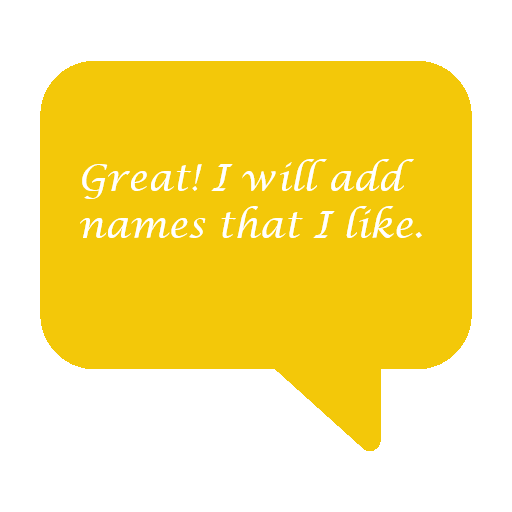
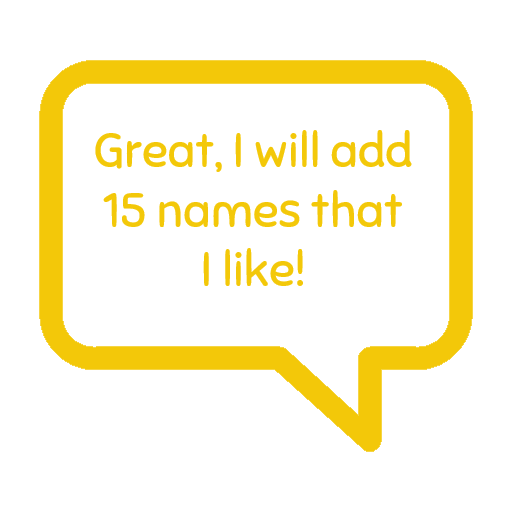
speech bubbles added

diff --git a/src/App.js b/src/App.js
@@ -10,9 +10,10 @@ import create from './img/create2.png';
 import sword from './img/sword.png';
 import trophy from './img/trophy.png';
 import speechB1 from './img/speech-bubble1.png';
-import speechB2 from './img/speech-bubble2.png';
+import speechB2 from './img/speech-bubble22.png';
 import speechB3 from './img/speech-bubble3.png';
 import speechB4 from './img/speech-bubble4.png';
+/* import parent from './img/parent1.jpg'; */
 
 function App() {
 
@@ -39,8 +40,8 @@ function App() {
         <img className='Baby' src={babyboy} />
       </header>
       <section className='Names-pool'>
-        {/* <img src={speechB1} className='SpeechB1 Bubble' />
-        <img src={speechB2} className='SpeechB2 Bubble' /> */}
+        <img src={speechB1} className='SpeechB1 Bubble' />
+        <img src={speechB2} className='SpeechB2 Bubble' />
         <container className='ContentBox'>
           <img src={create} className='CreateIcon BigIcon' />
           <h2>1. Create pool of names</h2>
@@ -49,16 +50,15 @@ function App() {
         </container>
       </section>
       <section className='Comparison' id='duels'>
-        {/* <img src={speechB3} className='SpeechB3 Bubble' />
-        <img src={speechB4} className='SpeechB4 Bubble' /> */}
+        <img src={speechB3} className='SpeechB3 Bubble' />
+        <img src={speechB4} className='SpeechB4 Bubble' />
+        
         <container className='ContentBox'>
           <img src={sword} className='CompareIcon BigIcon' />
           <h2>2. Compare names in pairs</h2>
           <p> Complete a series of name compraisons to determine your preference ranking. Do it INDIVIDUALLY.</p>
-          {/* <p> Complete a series of name compraisons to determine your preference ranking. Do it INDIVIDUALLY.</p>
-          <p>Person A starts in the first window.</p>
-          <p>Then SWAP SEATS and Person B contiunes in the second window.</p> */}
-
+          {/* <img src={parent} className='ComparePhoto' /> */}
+          
 
           <div className='CompareWindow'>
             <h3>Person A</h3>
@@ -85,7 +85,7 @@ function App() {
           <p>See the best names TRADE-OFF suggestion for your relationship.</p>
           <Results ranking={ranking} />
         </container>
-        
+
       </section>
       <footer className='Footer'>
         <p>Created by Jerzy Szufa</p>

diff --git a/src/App.css b/src/App.css
@@ -33,16 +33,7 @@
   font-size: 20px;
 }
 
-.App .CompareWindow {
-  margin-bottom: 60px;
-  margin-top: 100px;
-}
 
-.App .CompareWindow h3 {
-  color: white;
-  text-align: center;
-  text-transform: uppercase;
-}
 
 .App .Header {
   background-color: #79BDCB;
@@ -93,7 +84,7 @@
 
 .App .Bubble {
   position: absolute;
-  height: 250px;
+  height: 160px;
   opacity: 0.8;
 }
 
@@ -104,19 +95,19 @@
 
 .App .Names-pool .SpeechB2 {
   right:30px;
-  top: 20px;
+  top: 0px;
 }
 
 .App .Comparison .SpeechB3 {
   left:30px;
-  top: 350px;
+  top: 20px;
   height: 200px;
 }
 
 .App .Comparison .SpeechB4 {
 
   right:30px;
-  top: 740px;
+  top: 20px;
   height: 200px;
 }
 
@@ -158,6 +149,24 @@
 .App .Comparison .ResultsBtn:hover {
   background-color: #94CB79;
 }
+
+/* .App .Comparison .ComparePhoto {
+  height: 30vh;
+  border-radius: 10px;
+  opacity: 1;
+} */
+
+.App .CompareWindow {
+  margin-bottom: 60px;
+  margin-top: 60px;
+}
+
+.App .CompareWindow h3 {
+  color: white;
+  text-align: center;
+  text-transform: uppercase;
+}
+
 
 
 /* SECTION 3. SEE YOUR TOP NAMES*/

diff --git a/src/Names.css b/src/Names.css
@@ -47,4 +47,5 @@
 
 .names .DoneBtn:hover {
     background-color: #94CB79;
+    opacity: 1;
 }
